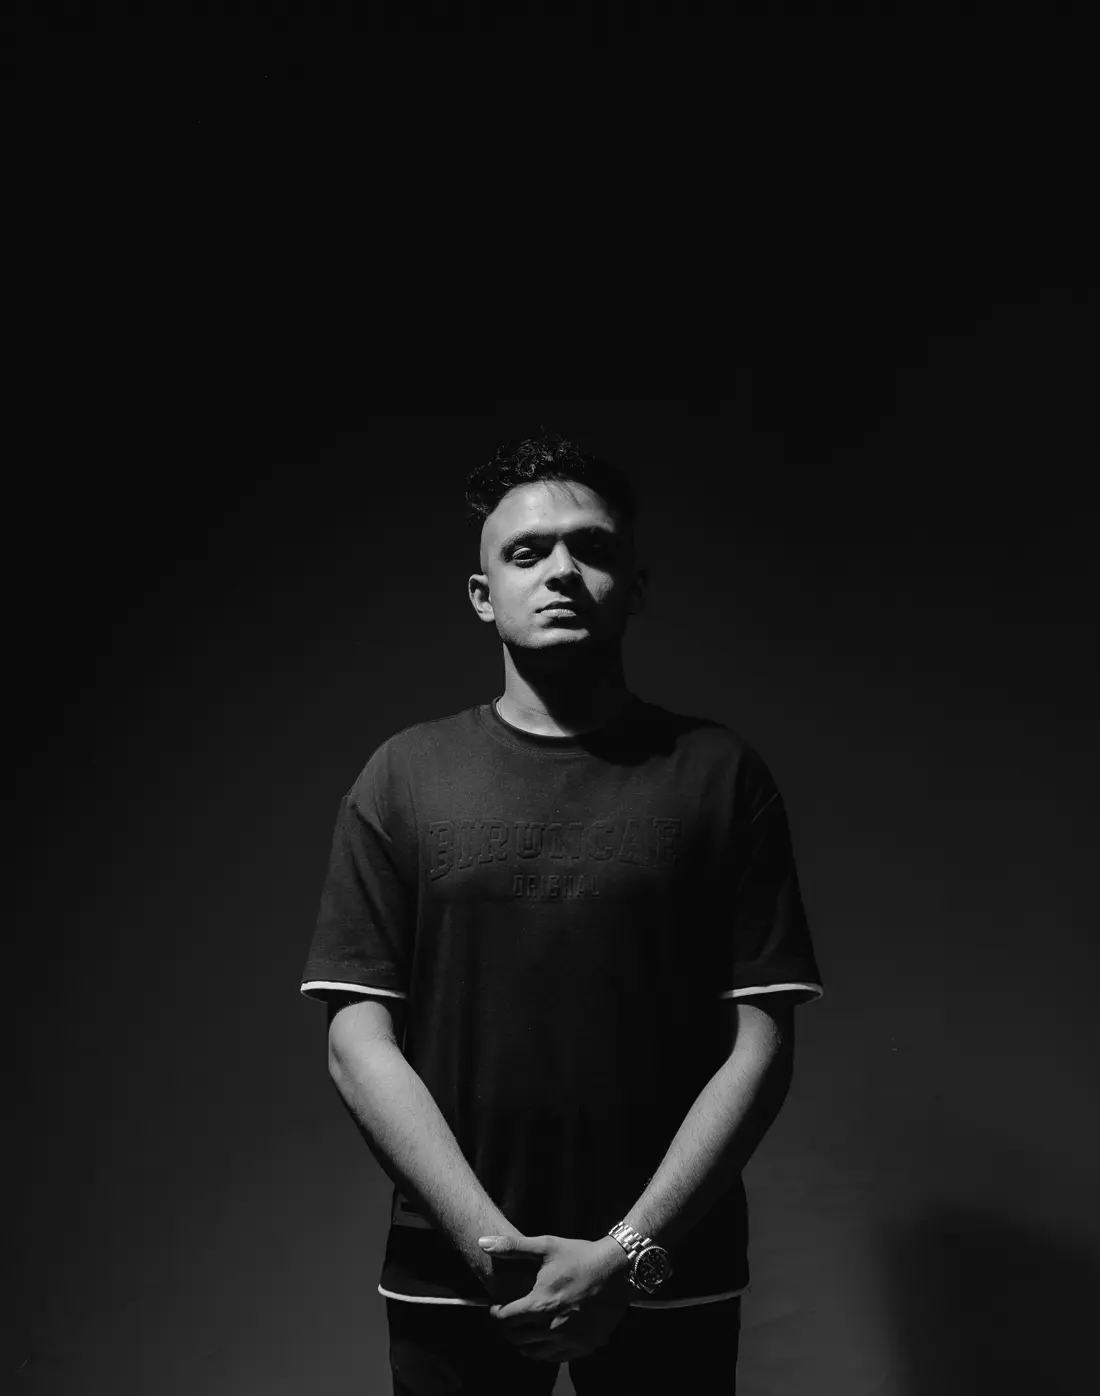
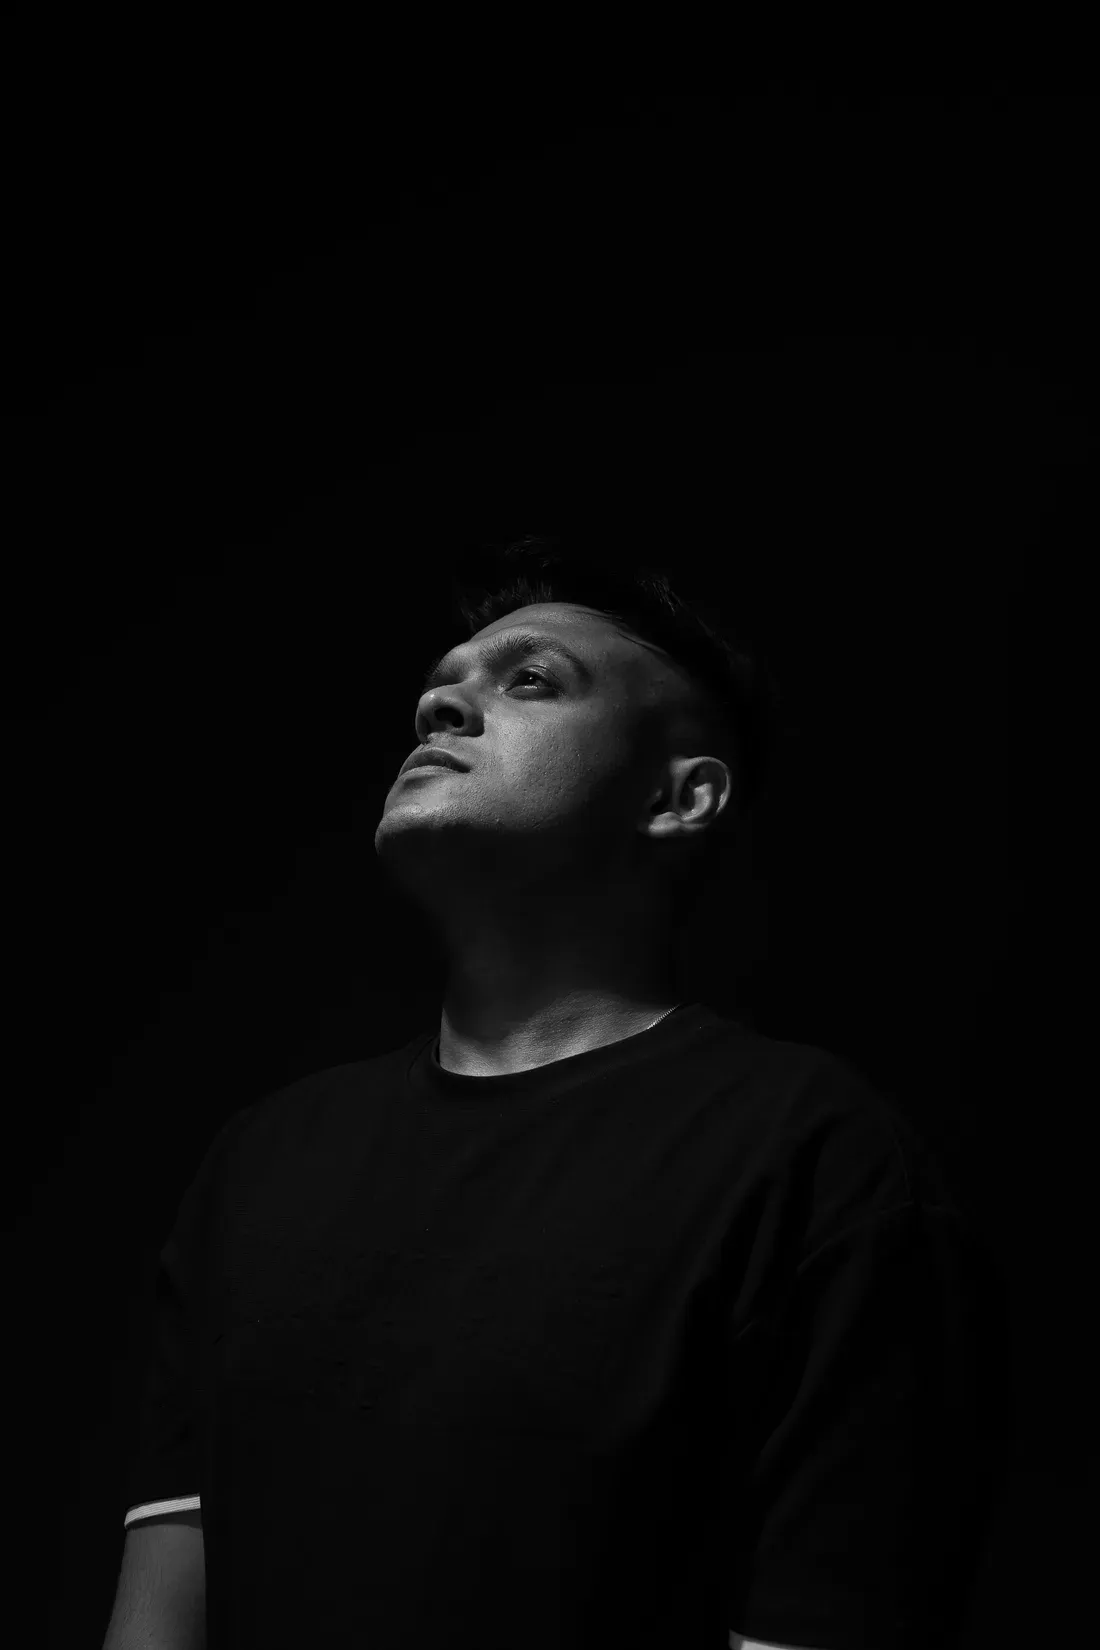
fix(shows): stop advertising shows that do not exist
Three related fixes to the upcoming-shows path, all of which put wrong dates
in front of real clients.

Never fall back to PLACEHOLDER_SHOWS on a live response. withFallback filled
an empty or errored calendar with invented gigs, so a client site with no
booked shows advertised fabricated ones. Placeholders now only appear when no
API is configured at all, i.e. a bare local checkout.

Filter finished shows in normalizeUpcomingShows rather than in the Shows
section. Every consumer of the hook now gets the same list, so /bookings can
no longer disagree with the homepage. Filtering runs before the limit slice,
so a limit of 5 yields five future shows rather than five rows minus the past
ones. The comparison uses the raw ISO date cell, which sorts correctly as a
string, instead of re-parsing the formatted display label - this deletes the
whole parseShowDate guessing layer. Unreadable dates are still kept, failing
open rather than silently hiding a real gig.

Accept youtu.be share links in getYouTubeId. That is the form the YouTube app
copies, and returning null for it made the embed vanish with no error.

Also: centre the Hero copy and reweight its scrim to match, remeasure maalin's
portrait frame at the temples (the chin-up tilt put the silhouette's widest
point on the jaw), and add a Dr. Green video.

Changed region(s): [[0.0309, 0.308, 1.0, 1.0], [0.4945, 0.9857, 0.5255, 1.0]]

diff --git a/flost8-web/src/lib/bookingContract.test.ts b/flost8-web/src/lib/bookingContract.test.ts
@@ -1,4 +1,4 @@
-import { describe, it, expect } from 'vitest'
+import { describe, it, expect, beforeAll, afterAll, vi } from 'vitest'
 import {
   validateBookingForm,
   normalizeUpcomingShows,
@@ -33,7 +33,18 @@ describe('validateBookingForm', () => {
   })
 })
 
+// normalizeUpcomingShows now drops finished shows, so every fixture below is relative to a
+// pinned clock. Without this the date-formatting specs would start failing the day their
+// hard-coded dates fall into the past.
+const NOW = new Date('2026-06-01T09:00:00.000Z')
+
 describe('normalizeUpcomingShows (§4 ISO date parsing)', () => {
+  beforeAll(() => {
+    vi.useFakeTimers()
+    vi.setSystemTime(NOW)
+  })
+  afterAll(() => vi.useRealTimers())
+
   it('formats a plain YYYY-MM-DD date', () => {
     const [show] = normalizeUpcomingShows([
       { artist: 'DR. GREEN', venue: 'The Factory', city: 'Colombo', date: '2026-06-14' },
@@ -47,5 +58,50 @@ describe('normalizeUpcomingShows (§4 ISO date parsing)', () => {
     ])
     // must NOT render the raw ISO string
     expect(show.date).toBe('Jun 14, 2026')
+  })
+})
+
+describe('normalizeUpcomingShows (finished shows)', () => {
+  beforeAll(() => {
+    vi.useFakeTimers()
+    vi.setSystemTime(NOW)
+  })
+  afterAll(() => vi.useRealTimers())
+
+  const row = (artist: string, date: string) => ({
+    artist,
+    venue: 'The Factory',
+    city: 'Kandy',
+    date,
+  })
+
+  it('drops a show that already happened', () => {
+    const shows = normalizeUpcomingShows([row('DR. GREEN', '2026-05-25')])
+    expect(shows).toEqual([])
+  })
+
+  it("keeps a show dated today (it hasn't happened until the day is over)", () => {
+    const shows = normalizeUpcomingShows([row('SONAL', '2026-06-01')])
+    expect(shows).toHaveLength(1)
+  })
+
+  it('keeps a show with an unreadable date (fail open, never silently hide a real gig)', () => {
+    const shows = normalizeUpcomingShows([row('IMTHXD', 'next Friday')])
+    expect(shows).toHaveLength(1)
+    expect(shows[0].date).toBe('next Friday')
+  })
+
+  it('applies the limit AFTER filtering, so n=2 returns two future shows', () => {
+    const shows = normalizeUpcomingShows(
+      [
+        row('PAST 1', '2026-01-01'),
+        row('PAST 2', '2026-02-01'),
+        row('FUTURE 1', '2026-07-01'),
+        row('FUTURE 2', '2026-08-01'),
+        row('FUTURE 3', '2026-09-01'),
+      ],
+      2,
+    )
+    expect(shows.map((s) => s.artist)).toEqual(['FUTURE 1', 'FUTURE 2'])
   })
 })

diff --git a/flost8-web/src/components/sections/Shows.tsx b/flost8-web/src/components/sections/Shows.tsx
@@ -8,44 +8,6 @@ import { PUBLIC_ARTISTS } from '../../lib/artistRoster'
 import type { UpcomingShow } from '../../lib/bookingContract'
 import { EASE, SPRING, staggerParent } from '../../lib/motion'
 
-// ---------------------------------------------------------------------------
-// Date filtering helpers
-// ---------------------------------------------------------------------------
-
-/**
- * Parse a show's display date string into a UTC midnight Date.
- * Handles formats produced by formatShowDate in bookingContract:
- *   "Jun 14, 2026"           (Intl.DateTimeFormat output, may include comma)
- *   "Jun 14 2026"            (PLACEHOLDER_SHOWS format, no comma)
- *   "Jun 14, 2026 - 10:00 PM" (with time suffix)
- * Returns null if unparseable (fail-open: keep the show).
- */
-function parseShowDate(dateStr: string): Date | null {
-  if (!dateStr) return null
-  // Strip any time suffix (everything after " - ")
-  const bare = dateStr.split(' - ')[0].trim()
-  // Normalise: remove trailing comma so both "Jun 14, 2026" and "Jun 14 2026" parse cleanly
-  const normalised = bare.replace(',', '')
-  const d = new Date(normalised)
-  return isNaN(d.getTime()) ? null : d
-}
-
-/** Return today's date at UTC midnight for a stable day-boundary comparison. */
-function todayUTC(): Date {
-  const now = new Date()
-  return new Date(Date.UTC(now.getFullYear(), now.getMonth(), now.getDate()))
-}
-
-/** Keep shows whose date >= today. Unparseable dates are kept (fail-open). */
-function filterFutureShows(shows: UpcomingShow[]): UpcomingShow[] {
-  const today = todayUTC()
-  return shows.filter((show) => {
-    const d = parseShowDate(show.date)
-    if (!d) return true // fail-open
-    return d >= today
-  })
-}
-
 interface ShowRow {
   slug: string | null
   photo: string | null
@@ -137,9 +99,9 @@ function ShowRowCard({ row, reduce }: { row: ShowRow; reduce: boolean }) {
 
 export default function Shows() {
   const { reduce } = useMotionSafe()
-  const { shows: rawShows, loading } = useUpcomingShows(5)
-  // Task A: filter to today-or-future only; unparseable dates are kept (fail-open).
-  const shows = filterFutureShows(rawShows)
+  // Past shows are filtered upstream in normalizeUpcomingShows, so every consumer of the
+  // hook gets the same list — this section and /bookings both.
+  const { shows, loading } = useUpcomingShows(5)
 
   return (
     <section id="shows" className="relative bg-base py-10 md:py-20">

diff --git a/flost8-web/src/components/sections/Hero.tsx b/flost8-web/src/components/sections/Hero.tsx
@@ -117,13 +117,16 @@ export default function Hero() {
         aria-hidden="true"
       />
       {/* Left scrim only where the copy sits, so it never dims the centre-framed subject.
-          Masked at the top edge so it dissolves into the frame instead of banding. */}
+          Copy is vertically centred, so the scrim is weighted to the middle band and masked
+          away at BOTH ends — it dissolves into the frame instead of banding. */}
       <div
-        className="absolute inset-x-0 bottom-0 h-[85%] bg-gradient-to-t from-base via-base/65 to-transparent md:bg-gradient-to-r md:from-base/90 md:via-base/55 md:to-transparent md:[mask-image:linear-gradient(to_top,black_30%,transparent_100%)]"
+        className="absolute inset-0 bg-gradient-to-b from-transparent via-base/75 to-transparent md:bg-gradient-to-r md:from-base/90 md:via-base/55 md:to-transparent md:[mask-image:linear-gradient(to_bottom,transparent_0%,black_25%,black_75%,transparent_100%)]"
         aria-hidden="true"
       />
 
-      <div className="relative z-10 mx-auto flex min-h-[100dvh] max-w-[1200px] flex-col justify-end px-6 pb-16 pt-24 md:px-10 md:pb-20">
+      {/* Vertically centred copy. pt-24 reserves the 64px nav pill so "centre" means centred in
+          the space BELOW the nav, not in the raw viewport. */}
+      <div className="relative z-10 mx-auto flex min-h-[100dvh] max-w-[1200px] flex-col justify-center px-6 pb-16 pt-24 md:px-10">
         <motion.div
           className="max-w-full md:max-w-[72%]"
           variants={staggerParentSlow}

diff --git a/flost8-web/src/hooks/useUpcomingShows.ts b/flost8-web/src/hooks/useUpcomingShows.ts
@@ -2,12 +2,9 @@ import { useEffect, useState } from 'react'
 import { BOOKING_API_URL } from '../lib/config'
 import { normalizeUpcomingShows, PLACEHOLDER_SHOWS, type UpcomingShow } from '../lib/bookingContract'
 
-// Until the live calendar has real events, show dummy dates instead of an empty band.
-function withFallback(shows: UpcomingShow[], limit?: number): UpcomingShow[] {
-  if (shows.length > 0) return shows
-  return typeof limit === 'number' ? PLACEHOLDER_SHOWS.slice(0, limit) : PLACEHOLDER_SHOWS
-}
-
+// PLACEHOLDER_SHOWS are invented dates. They are only ever shown when the app has no API
+// configured at all (a bare local checkout) — NEVER as a fallback for a live but empty
+// response, which would advertise gigs that do not exist on the real client site.
 interface UpcomingShowsState {
   shows: UpcomingShow[]
   loading: boolean
@@ -43,14 +40,14 @@ export function useUpcomingShows(limit?: number): UpcomingShowsState {
       })
       .then((data) => {
         setState({
-          shows: withFallback(normalizeUpcomingShows(data, limit), limit),
+          shows: normalizeUpcomingShows(data, limit),
           loading: false,
           error: false,
         })
       })
       .catch((error: unknown) => {
         if (error instanceof DOMException && error.name === 'AbortError') return
-        setState({ shows: withFallback([], limit), loading: false, error: true })
+        setState({ shows: [], loading: false, error: true })
       })
 
     return () => controller.abort()

diff --git a/flost8-web/src/lib/bookingContract.ts b/flost8-web/src/lib/bookingContract.ts
@@ -130,9 +130,30 @@ export const PLACEHOLDER_SHOWS: UpcomingShow[] = [
   { artist: 'ANUSH', date: 'Oct 17 2026', venue: 'Ministry of Crab', city: 'Colombo' },
 ]
 
+/** Today as `YYYY-MM-DD` in UTC — same key space the sheet's date cells use. */
+function todayKeyUTC(): string {
+  return new Date().toISOString().slice(0, 10)
+}
+
+/** The `YYYY-MM-DD` prefix of a raw date cell, or '' when it isn't one. */
+function dateKey(raw: string): string {
+  const match = raw.match(/^(\d{4}-\d{2}-\d{2})(?:[T ].*)?$/)
+  return match ? match[1] : ''
+}
+
 export function normalizeUpcomingShows(data: unknown, limit?: number): UpcomingShow[] {
-  const rows = getEventRows(data)
-  const shows = rows.map(normalizeEvent).filter((show): show is UpcomingShow => Boolean(show))
+  const today = todayKeyUTC()
+  const shows = getEventRows(data)
+    // Finished shows must never reach the UI. Compare the RAW date cell, not the formatted
+    // label — ISO keys sort as strings, so no Date parsing is needed. Filtering happens
+    // BEFORE the limit slice so `n=5` yields five *future* shows, not five rows minus the
+    // past ones. Fail open: a date we can't read is kept rather than silently dropped.
+    .filter((event) => {
+      const key = dateKey(stringValue(event.date))
+      return key === '' || key >= today
+    })
+    .map(normalizeEvent)
+    .filter((show): show is UpcomingShow => Boolean(show))
   return typeof limit === 'number' ? shows.slice(0, limit) : shows
 }
 

diff --git a/flost8-web/src/lib/artistRoster.ts b/flost8-web/src/lib/artistRoster.ts
@@ -43,6 +43,7 @@ export const PUBLIC_ARTISTS: PublicArtist[] = [
       { type: 'youtube', url: 'https://www.youtube.com/watch?v=mIzxpKdVS7g' },
       { type: 'youtube', url: 'https://www.youtube.com/watch?v=jPFlSMzOJEI&t=789s' },
       { type: 'youtube', url: 'https://www.youtube.com/watch?v=ZP14TK60BIs&t=3297s' },
+      { type: 'youtube', url: 'https://www.youtube.com/watch?v=Zm-9yuSTc8k' },
     ],
     gigs: ['Soundgarden Festival', 'Dr Green & Friends', 'International Tours'],
     bio: 'Hailing from the beautiful island of Sri Lanka, Dr. Green is a DJ and producer who has been making waves in the electronic music scene. With a distinct taste for progressive house, deep house, and melodic techno, his track productions are a true reflection of his personal style.',

diff --git a/flost8-web/src/lib/embeds.ts b/flost8-web/src/lib/embeds.ts
@@ -1,9 +1,12 @@
 /**
- * Extract the 11-character video ID from a YouTube watch URL.
- * Returns null if no valid v= parameter is found.
+ * Extract the 11-character video ID from a YouTube URL.
+ * Accepts both the long `watch?v=` form and the `youtu.be/` share link — the share
+ * link is what the YouTube app copies, and returning null for it makes the whole
+ * embed disappear with no error.
+ * Returns null if no valid ID is found.
  */
 export function getYouTubeId(url: string): string | null {
-  const match = url.match(/[?&]v=([\w-]{11})/);
+  const match = url.match(/(?:[?&]v=|youtu\.be\/)([\w-]{11})/);
   return match ? match[1] : null;
 }
 

diff --git a/flost8-web/src/lib/embeds.test.ts b/flost8-web/src/lib/embeds.test.ts
@@ -25,6 +25,12 @@ describe('embeds', () => {
       );
     });
 
+    it('extracts id from a youtu.be share link with a tracking param', () => {
+      expect(getYouTubeId('https://youtu.be/Zm-9yuSTc8k?si=oOg_3BAHbWBdGQ7O')).toBe(
+        'Zm-9yuSTc8k'
+      );
+    });
+
     it('returns null for SoundCloud URL', () => {
       expect(
         getYouTubeId('https://soundcloud.com/artist/track-name-123456789')
